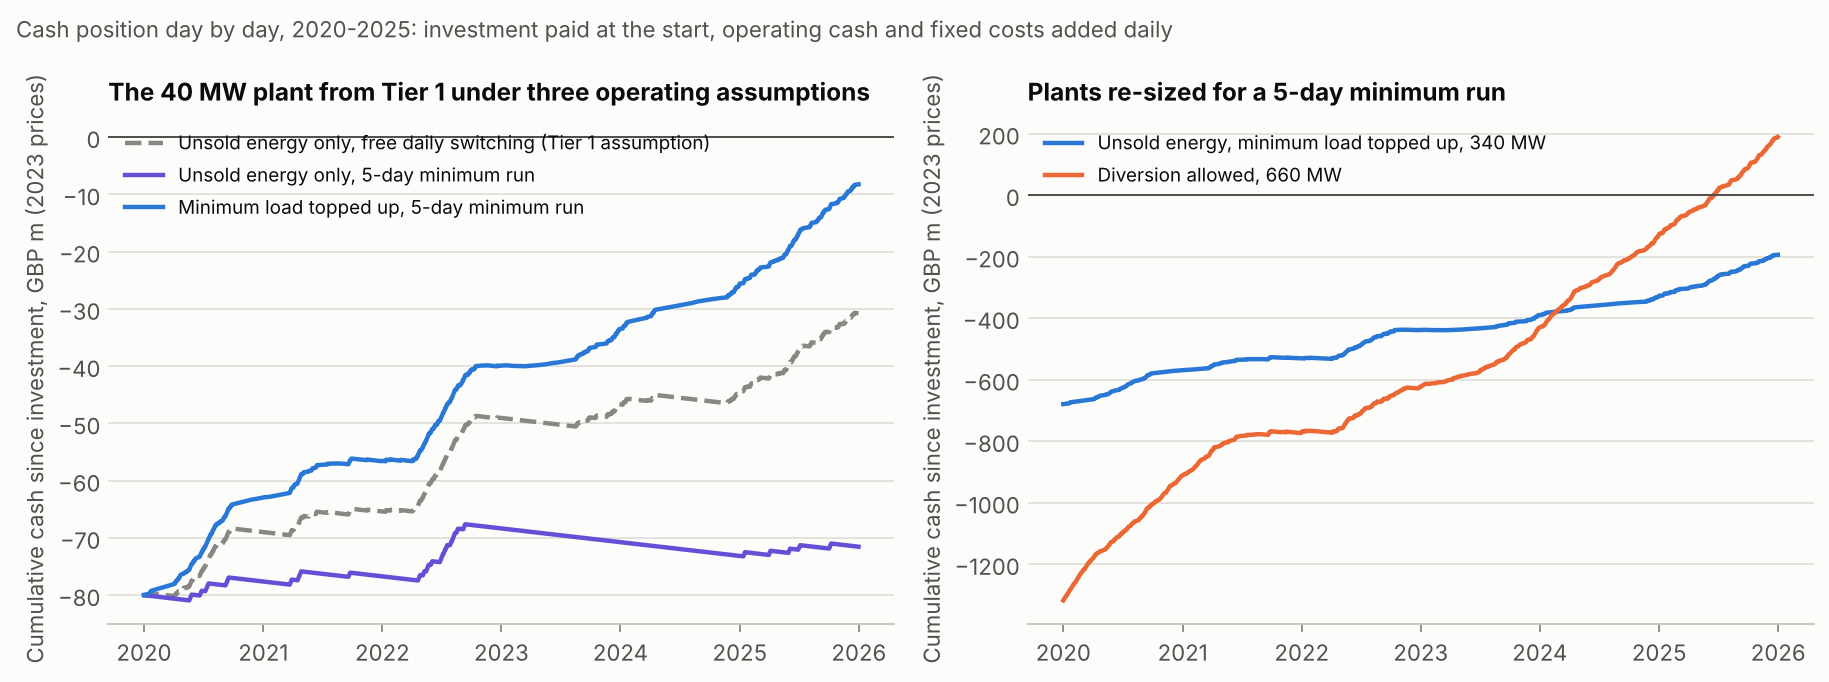
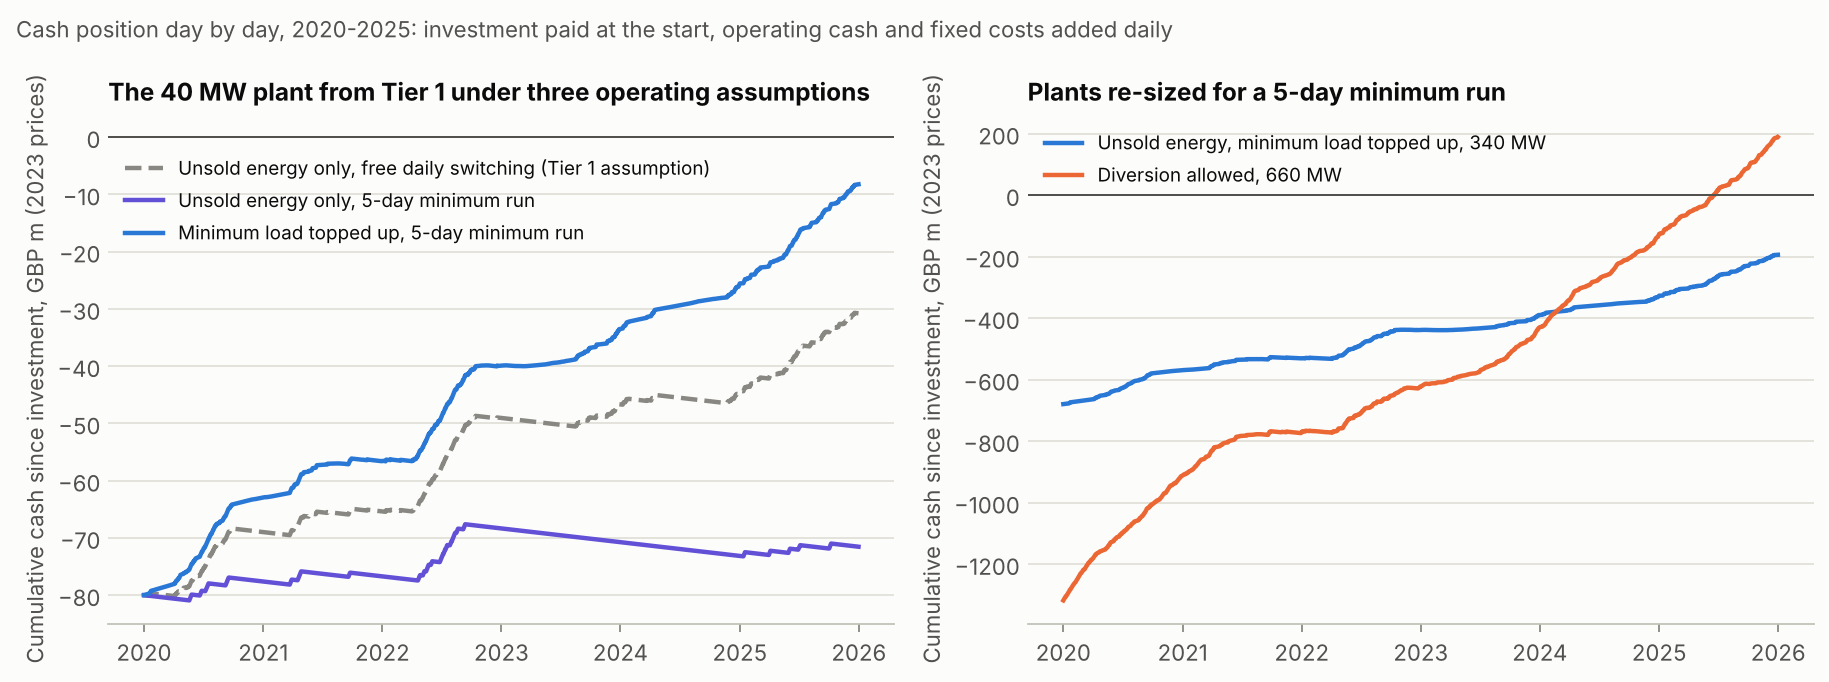
Move a legend clear of the zero line in Julian's Tier 2B cash figure
Agent-ID: julian-claude
Acting-Tier: Tier2
Claude-Session: https://claude.ai/code/session_01KALzcb1eXqi1JwxpfpcZ2W

Changed region(s): [[0.0623, 0.1848, 0.374, 0.3695]]

diff --git a/Tier2/workspaces/julian/claude/tier2b-chronological/20261123-v1/t2b_figures.py b/Tier2/workspaces/julian/claude/tier2b-chronological/20261123-v1/t2b_figures.py
@@ -56,7 +56,7 @@ def main():
             ax.plot(x.date, x.cumulative_cash_m, color=cols[k], label=lab, ls="--" if k == "A" else "-")
         ax.axhline(0, color=INK2, lw=0.9)
         ax.set_title(title); ax.set_ylabel("Cumulative cash since investment, GBP m (2023 prices)")
-        ax.legend(loc="upper left", fontsize=8.5)
+        ax.legend(loc="upper left", fontsize=8.5, bbox_to_anchor=(0.0, 0.95 if ax is axs[0] else 1.0))
     fig.suptitle("Cash position day by day, 2020-2025: investment paid at the start, operating cash and fixed costs added daily",
                  x=0.01, ha="left", fontsize=10, color=INK2)
     fig.tight_layout(); done(fig, "fig1_cash_through_time.png"); plt.close(fig)
